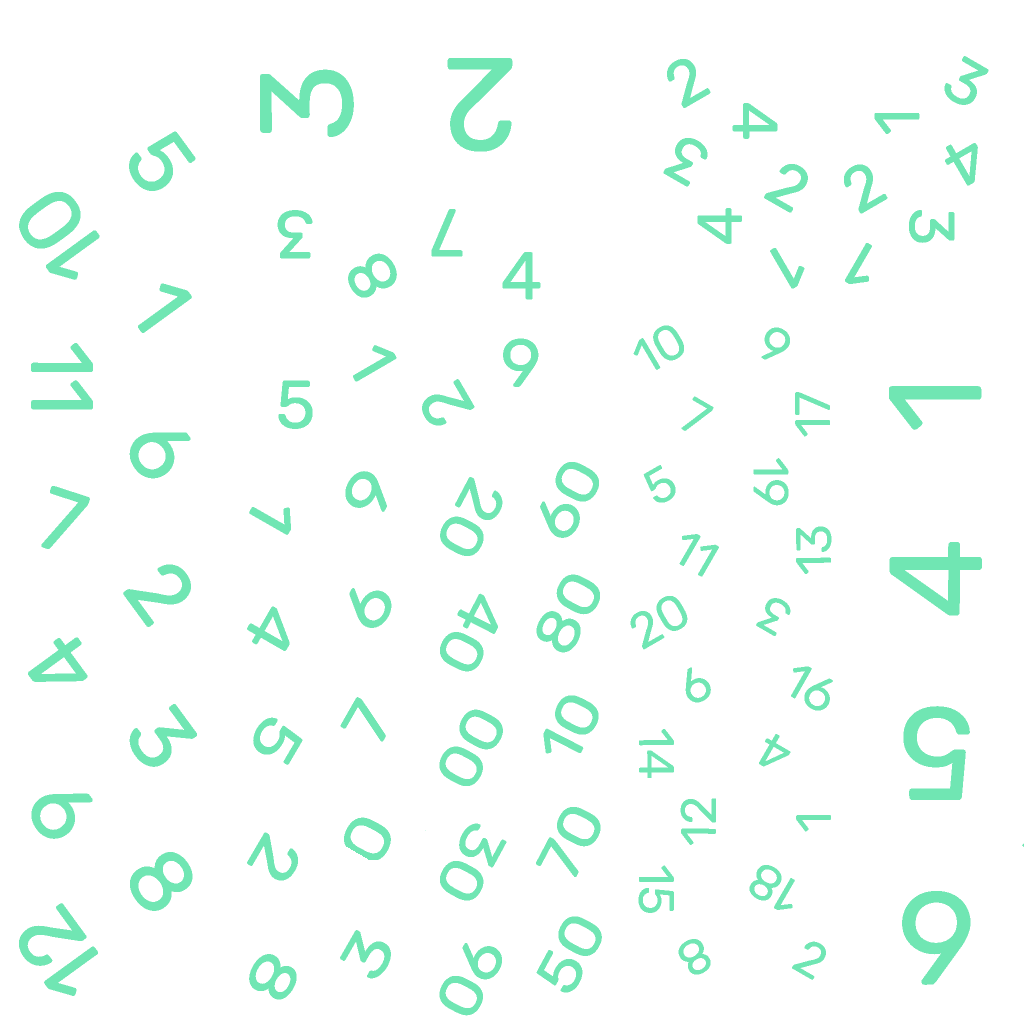
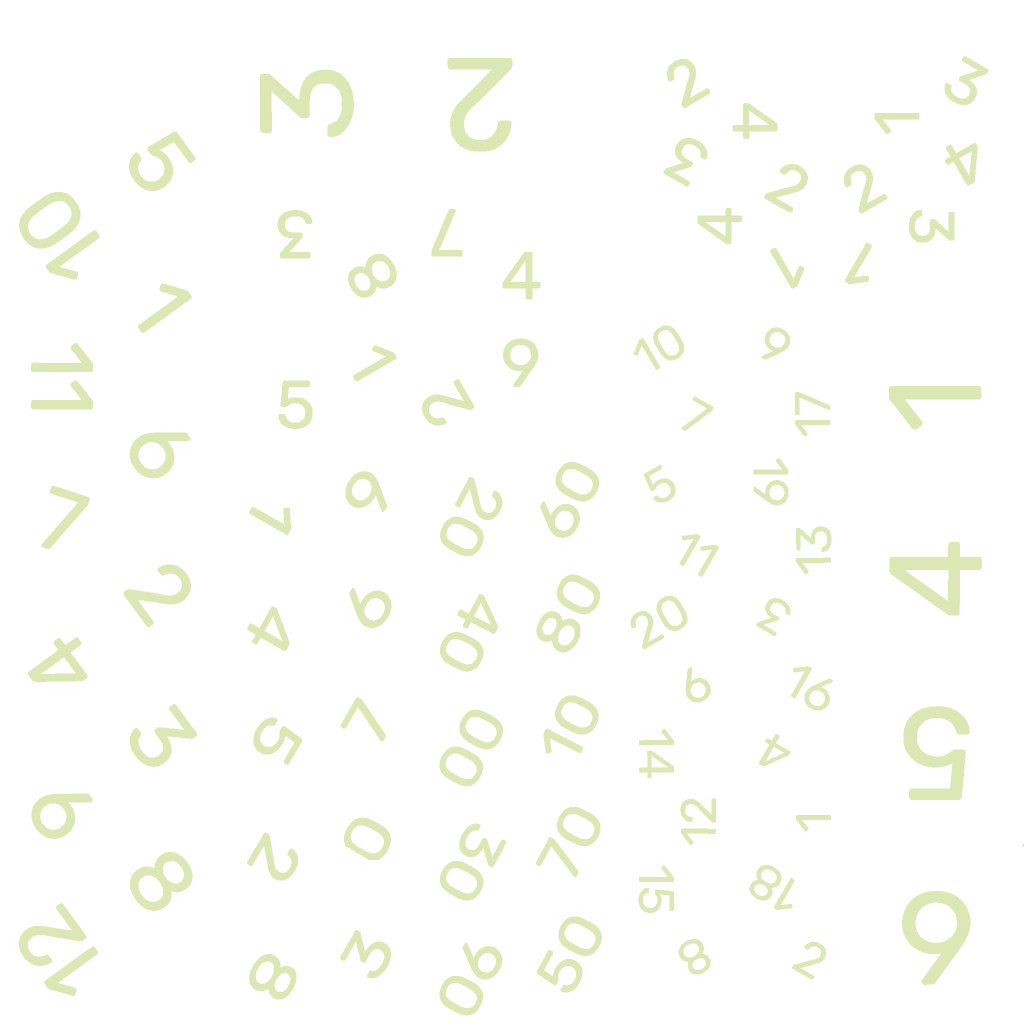
style(initiative): update adversary initiative die to #124a3d with #dbe8b3 numbers

diff --git a/client/test/InitiativeHud.test.js b/client/test/InitiativeHud.test.js
@@ -43,6 +43,9 @@ describe('Initiative Dice & HUD System', () => {
       // Player: body #70e6b3, border/text #1d705d
       expect(spaceContent).toMatch(/#70e6b3/);
       expect(spaceContent).toMatch(/#1d705d/);
+      // Opposition: body #124a3d, numbers #dbe8b3
+      expect(spaceContent).toMatch(/#124a3d/);
+      expect(spaceContent).toMatch(/#dbe8b3/);
     });
 
     it('defines glow effect box-shadow and text-shadow on initiative HUD banner', () => {
@@ -85,6 +88,9 @@ describe('Initiative Dice & HUD System', () => {
       // Player: body #70e6b3, border/text #1d705d
       expect(rpgContent).toMatch(/#70e6b3/);
       expect(rpgContent).toMatch(/#1d705d/);
+      // Opposition: body #124a3d, numbers #dbe8b3
+      expect(rpgContent).toMatch(/#124a3d/);
+      expect(rpgContent).toMatch(/#dbe8b3/);
     });
 
     it('defines glow effect box-shadow and text-shadow on initiative HUD banner', () => {
@@ -110,6 +116,16 @@ describe('Initiative Dice & HUD System', () => {
   });
 
   describe('Initiative Roll Winner Determination', () => {
+    it('correctly parses dice rolls with #70e6b3 and #124a3d themeColors', () => {
+      const res = calculateInitiativeRoll([
+        { theme: 'custom-init-player', themeColor: '#70e6b3', value: 8 },
+        { theme: 'custom-init-opp', themeColor: '#124a3d', value: 4 }
+      ]);
+      expect(res.playerRoll).toBe(8);
+      expect(res.oppRoll).toBe(4);
+      expect(res.valid).toBe(true);
+    });
+
     it('correctly parses dice rolls with #70e6b3 and #1d705d themeColors', () => {
       const res = calculateInitiativeRoll([
         { theme: 'custom-init-player', themeColor: '#70e6b3', value: 8 },

diff --git a/client/src/views/SpaceVttView.vue b/client/src/views/SpaceVttView.vue
@@ -1655,7 +1655,7 @@ async function rollInitiative() {
   try {
     const results = await executeQueuedDiceRoll(diceBox, [
       { sides: 10, theme: 'custom-init-player', themeColor: '#70e6b3', qty: 1 },
-      { sides: 10, theme: 'custom-init-opp', themeColor: '#1d705d', qty: 1 }
+      { sides: 10, theme: 'custom-init-opp', themeColor: '#124a3d', qty: 1 }
     ]);
     const initSummary = calculateInitiativeRoll(results);
     if (initSummary.valid) {
@@ -3740,13 +3740,13 @@ onBeforeUnmount(() => {
   text-shadow: 0 0 10px rgba(181, 238, 255, 0.7);
 }
 .init-opp-die {
-  background: #1d705d;
-  border: 2px solid #70e6b3;
-  color: #70e6b3;
-  box-shadow: 0 0 12px rgba(112, 230, 179, 0.3), inset 0 2px 4px rgba(255, 255, 255, 0.1);
+  background: #124a3d;
+  border: 2px solid #dbe8b3;
+  color: #dbe8b3;
+  box-shadow: 0 0 12px rgba(219, 232, 179, 0.3), inset 0 2px 4px rgba(255, 255, 255, 0.1);
 }
 .init-opp-die .init-val {
-  text-shadow: 0 0 10px rgba(112, 230, 179, 0.7);
+  text-shadow: 0 0 10px rgba(219, 232, 179, 0.7);
 }
 .init-label {
   font-size: 9px;
@@ -3784,13 +3784,13 @@ onBeforeUnmount(() => {
   box-shadow: 0 0 6px rgba(112, 230, 179, 0.35);
 }
 .init-pill-opp {
-  background: #1d705d;
-  color: #70e6b3;
-  border: 1px solid #70e6b3;
+  background: #124a3d;
+  color: #dbe8b3;
+  border: 1px solid #dbe8b3;
   padding: 1px 6px;
   border-radius: 3px;
   font-weight: 700;
-  box-shadow: 0 0 6px rgba(112, 230, 179, 0.25);
+  box-shadow: 0 0 6px rgba(219, 232, 179, 0.25);
 }
 
 /* Multi-Turn Flip & Burn */

diff --git a/client/src/views/RpgVttView.vue b/client/src/views/RpgVttView.vue
@@ -1034,7 +1034,7 @@ async function rollInitiative() {
   try {
     const results = await executeQueuedDiceRoll(diceBox, [
       { sides: 10, theme: 'custom-init-player', themeColor: '#70e6b3', qty: 1 },
-      { sides: 10, theme: 'custom-init-opp', themeColor: '#1d705d', qty: 1 }
+      { sides: 10, theme: 'custom-init-opp', themeColor: '#124a3d', qty: 1 }
     ]);
     const initSummary = calculateInitiativeRoll(results);
     if (initSummary.valid) {
@@ -2613,13 +2613,13 @@ onBeforeUnmount(() => {
   text-shadow: 0 0 10px rgba(181, 238, 255, 0.7);
 }
 .init-opp-die {
-  background: #1d705d;
-  border: 2px solid #70e6b3;
-  color: #70e6b3;
-  box-shadow: 0 0 12px rgba(112, 230, 179, 0.3), inset 0 2px 4px rgba(255, 255, 255, 0.1);
+  background: #124a3d;
+  border: 2px solid #dbe8b3;
+  color: #dbe8b3;
+  box-shadow: 0 0 12px rgba(219, 232, 179, 0.3), inset 0 2px 4px rgba(255, 255, 255, 0.1);
 }
 .init-opp-die .init-val {
-  text-shadow: 0 0 10px rgba(112, 230, 179, 0.7);
+  text-shadow: 0 0 10px rgba(219, 232, 179, 0.7);
 }
 .init-label {
   font-size: 9px;
@@ -2657,13 +2657,13 @@ onBeforeUnmount(() => {
   box-shadow: 0 0 6px rgba(112, 230, 179, 0.35);
 }
 .init-pill-opp {
-  background: #1d705d;
-  color: #70e6b3;
-  border: 1px solid #70e6b3;
+  background: #124a3d;
+  color: #dbe8b3;
+  border: 1px solid #dbe8b3;
   padding: 1px 6px;
   border-radius: 3px;
   font-weight: 700;
-  box-shadow: 0 0 6px rgba(112, 230, 179, 0.25);
+  box-shadow: 0 0 6px rgba(219, 232, 179, 0.25);
 }
 
 .modal-error-banner {

diff --git a/client/src/utils/diceUtils.js b/client/src/utils/diceUtils.js
@@ -78,7 +78,7 @@ export function calculatePercentileRoll(results) {
 /**
  * Processes settled die objects from @3d-dice/dice-box for combat initiative.
  * Die #1 (Players): theme 'custom-init-player', themeColor '#70e6b3' (legacy: '#12415a', '#0b222e').
- * Die #2 (Opposition): theme 'custom-init-opp', themeColor '#1d705d' (legacy: '#6f0e39', '#400a22').
+ * Die #2 (Opposition): theme 'custom-init-opp', themeColor '#124a3d' (legacy: '#1d705d', '#6f0e39', '#400a22').
  * On a d10 face showing 0 (raw value 0 or 10), the roll value is 10 (range 1-10).
  *
  * @param {Array} results
@@ -104,10 +104,11 @@ export function calculateInitiativeRoll(results) {
     d?.groupId === 0
   ) || flat[0];
 
-  // Find opposition die: theme 'custom-init-opp', themeColor '#1d705d' / '#6f0e39' / '#400a22', or groupId 1
+  // Find opposition die: theme 'custom-init-opp', themeColor '#124a3d' / '#1d705d' / '#6f0e39' / '#400a22', or groupId 1
   const oppDie = flat.find(d =>
     d !== playerDie && (
       d?.theme === 'custom-init-opp' ||
+      d?.themeColor?.toLowerCase() === '#124a3d' ||
       d?.themeColor?.toLowerCase() === '#1d705d' ||
       d?.themeColor?.toLowerCase() === '#6f0e39' ||
       d?.themeColor?.toLowerCase() === '#400a22' ||

diff --git a/server/build_initiative_themes.js b/server/build_initiative_themes.js
@@ -139,8 +139,8 @@ async function main() {
   fs.writeFileSync(path.join(playerDir, 'normal.png'), normBuffer);
   console.log('Generated custom-init-player theme (#1d705d)');
 
-  // Opposition theme numbers: #70e6b3 (mint green on #1d705d die)
-  const oppDiffuse = await makeDiffuse(0x70, 0xe6, 0xb3);
+  // Opposition theme numbers: #dbe8b3 (pale celery on #124a3d die)
+  const oppDiffuse = await makeDiffuse(0xdb, 0xe8, 0xb3);
   const oppDir = path.join(root, 'public/assets/dice-box/themes/custom-init-opp');
   if (!fs.existsSync(oppDir)) fs.mkdirSync(oppDir, { recursive: true });
   for (const f of filesToCopy) {
@@ -149,7 +149,7 @@ async function main() {
   fs.writeFileSync(path.join(oppDir, 'diffuse-light.png'), oppDiffuse);
   fs.writeFileSync(path.join(oppDir, 'diffuse-dark.png'), oppDiffuse);
   fs.writeFileSync(path.join(oppDir, 'normal.png'), normBuffer);
-  console.log('Generated custom-init-opp theme (#70e6b3)');
+  console.log('Generated custom-init-opp theme (#dbe8b3)');
 }
 
 main().catch(console.error);

diff --git a/client/test/diceUtils.test.js b/client/test/diceUtils.test.js
@@ -228,9 +228,9 @@ describe('calculateInitiativeRoll', () => {
   });
 
   it('identifies dice by themeColor when theme name is not present', () => {
-    // Reverse order input with new green site motif initiative colors (#70e6b3 and #1d705d)
+    // Reverse order input with new green site motif initiative colors (#70e6b3 and #124a3d)
     const raw = [
-      { value: 6, themeColor: '#1d705d' },
+      { value: 6, themeColor: '#124a3d' },
       { value: 9, themeColor: '#70e6b3' },
     ];
     const result = calculateInitiativeRoll(raw);

diff --git a/client/test/safeDiceRoller.test.js b/client/test/safeDiceRoller.test.js
@@ -39,7 +39,7 @@ describe('safeDiceRoller with executeQueuedDiceRoll', () => {
     it('generates player and opposition dice for initiative notation', () => {
       const notation = [
         { sides: 10, theme: 'custom-init-player', themeColor: '#70e6b3', qty: 1 },
-        { sides: 10, theme: 'custom-init-opp', themeColor: '#1d705d', qty: 1 }
+        { sides: 10, theme: 'custom-init-opp', themeColor: '#124a3d', qty: 1 }
       ];
       const results = generateSyntheticRoll(notation);
       expect(results.length).toBe(2);
